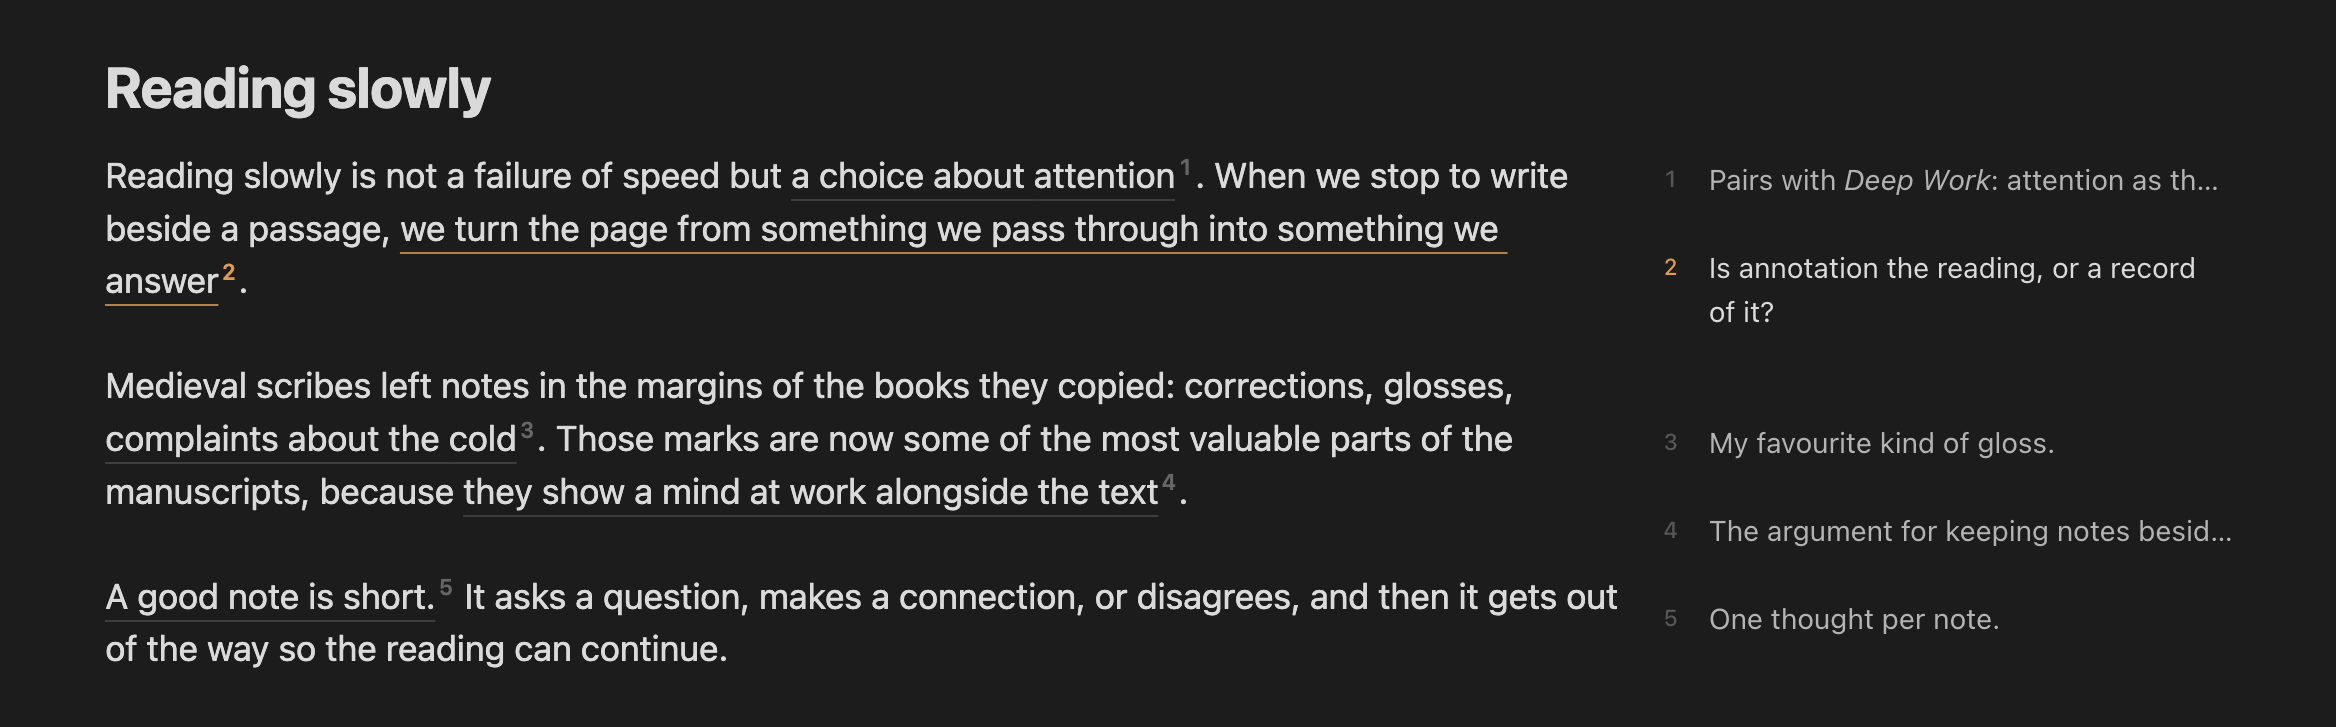
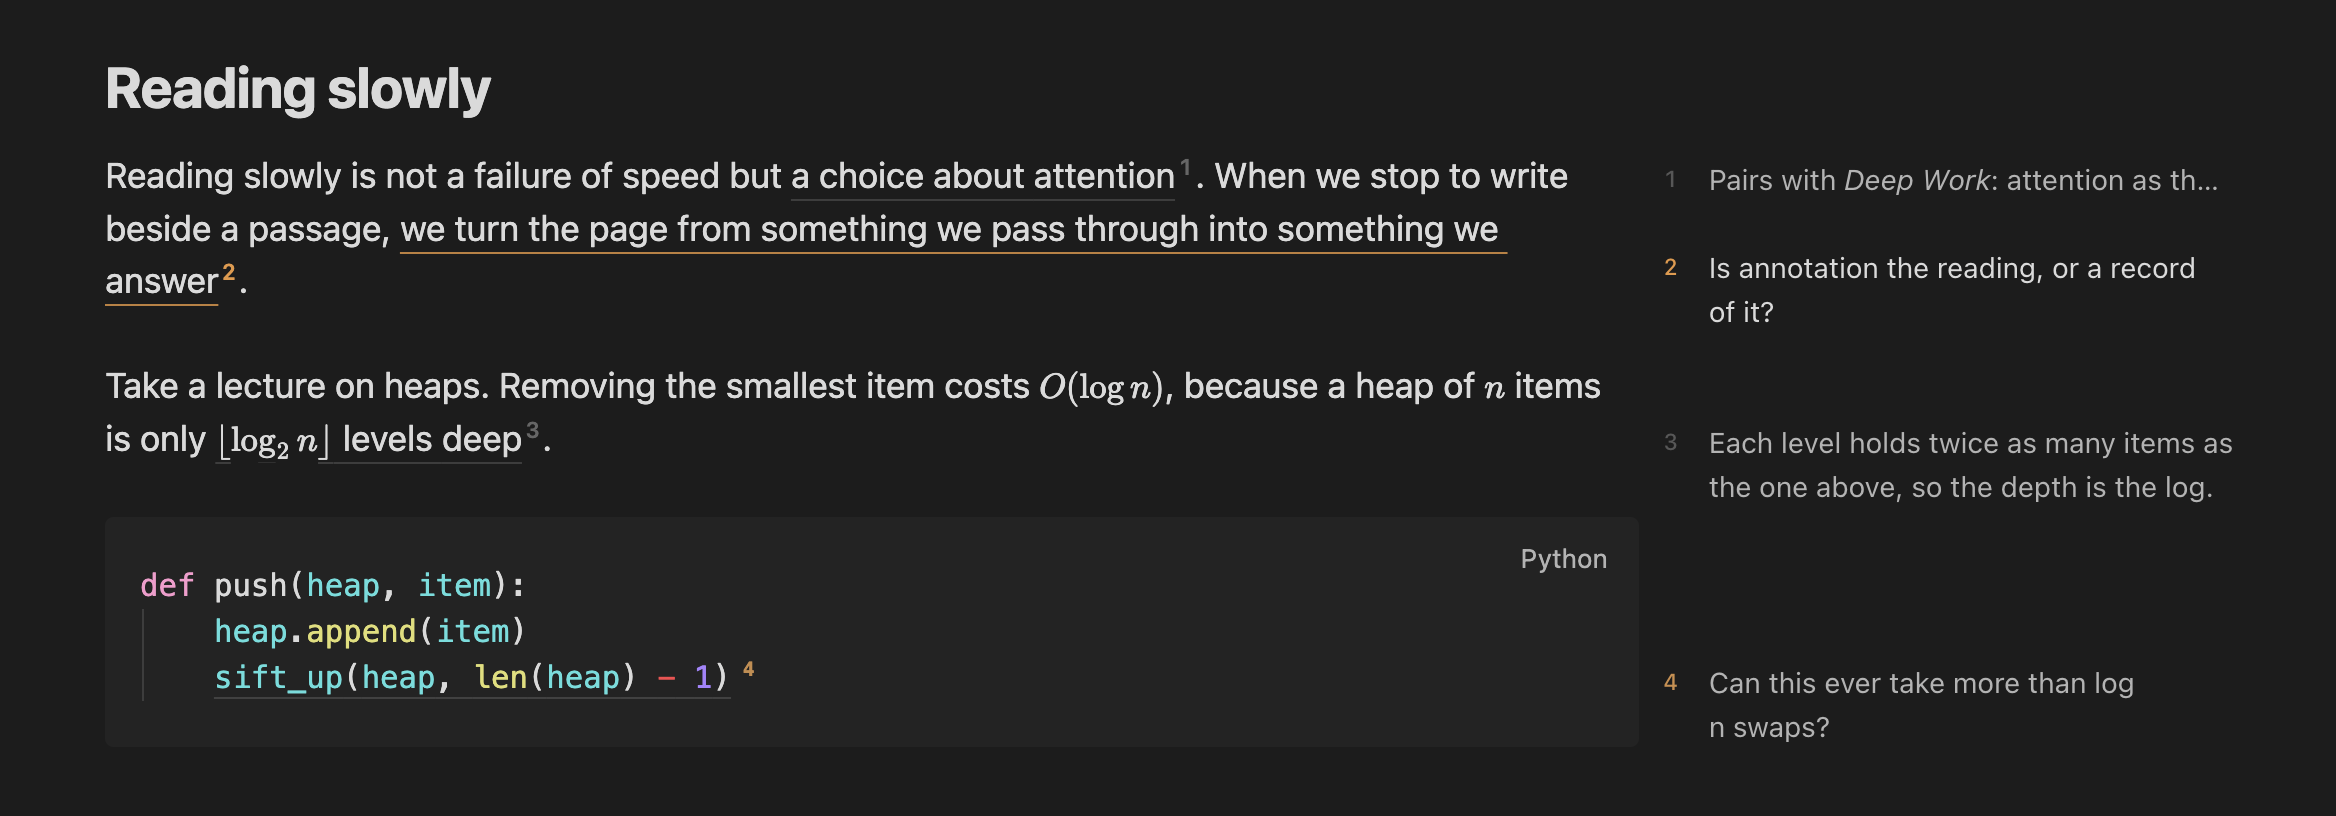
edit readme

diff --git a/README.md b/README.md
@@ -14,9 +14,7 @@
   </picture>
 </p>
 
-Select a passage and add a note. It sits in the margin beside the passage, and a small number follows the passage. Passages can be any length, cross paragraphs, overlap and nest. A note ending in `?` is a question.
-
-Your text is never touched. Notes live in a plain section at the end of the file, so they read fine in any editor:
+Select a passage and run **Add note**. Your text is never touched: notes live in a plain section at the end of the file, so they read fine in any editor.
 
 ```markdown
 <!-- marginalia -->
@@ -28,37 +26,6 @@ Your text is never touched. Notes live in a plain section at the end of the file
 
 Why a skill and not a trait?
 ```
-
-## Using it
-
-- **Add a note:** select a passage and run **Add note** (or right-click → Add note). Enter saves, Esc cancels.
-- **Edit a note:** click it. Empty it to delete it, or use the trash button. Every change is one undo step.
-- **Edit the passage:** the note follows it, and its quote is rewritten to match.
-- **Get around:** **Go to next note** and **Go to previous note**, or **Show all notes** for a list in the sidebar. The list also holds any note whose passage was deleted, to attach to a new selection or remove.
-
-Crowded notes shorten to one line so each stays beside its passage; click one to read it in full. In panes too narrow for a margin, and on phones, tapping a number opens its note under the passage. Reading view shows notes the same way, read-only.
-
-Ordinary footnotes are left alone.
-
-## Settings
-
-- **Margin width**
-- **Passage style:** a faint underline, a highlight, or nothing (passages always light up when their note is selected).
-- **Hide the notes section while editing** (Live Preview)
-- **Notes in reading view**
-
-## Development
-
-Clone into a development vault's `.obsidian/plugins/marginalia` (or symlink it there), then:
-
-```sh
-npm install
-npm run dev     # rebuilds main.js on save
-npm test        # the file format's tests
-obsidian plugin:reload id=marginalia && obsidian dev:errors
-```
-
-`src/format` is the file format (pure, and where the tests are), `src/editor` is Live Preview, `src/reading` is Reading view.
 
 ## License
 
